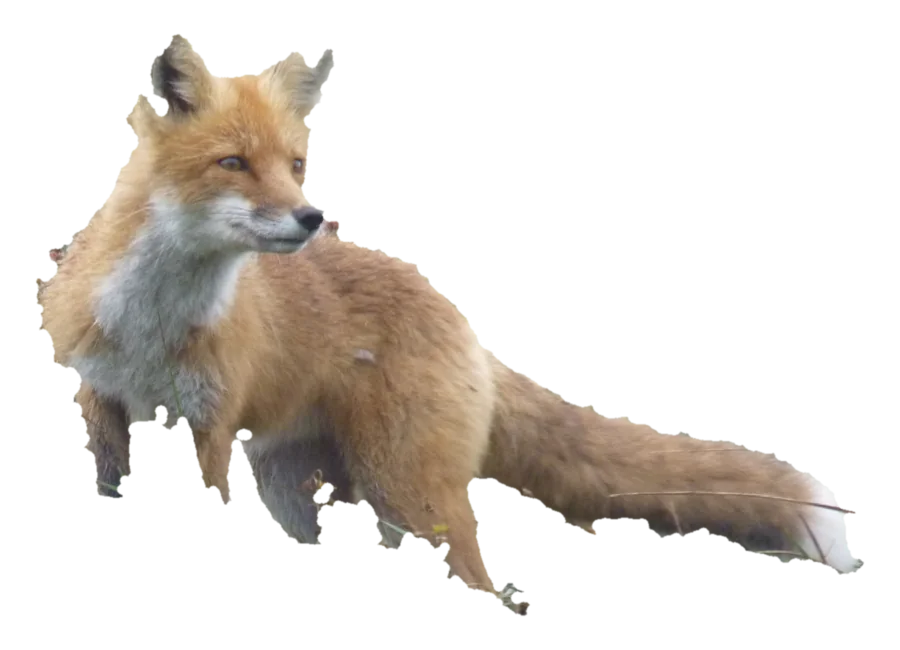
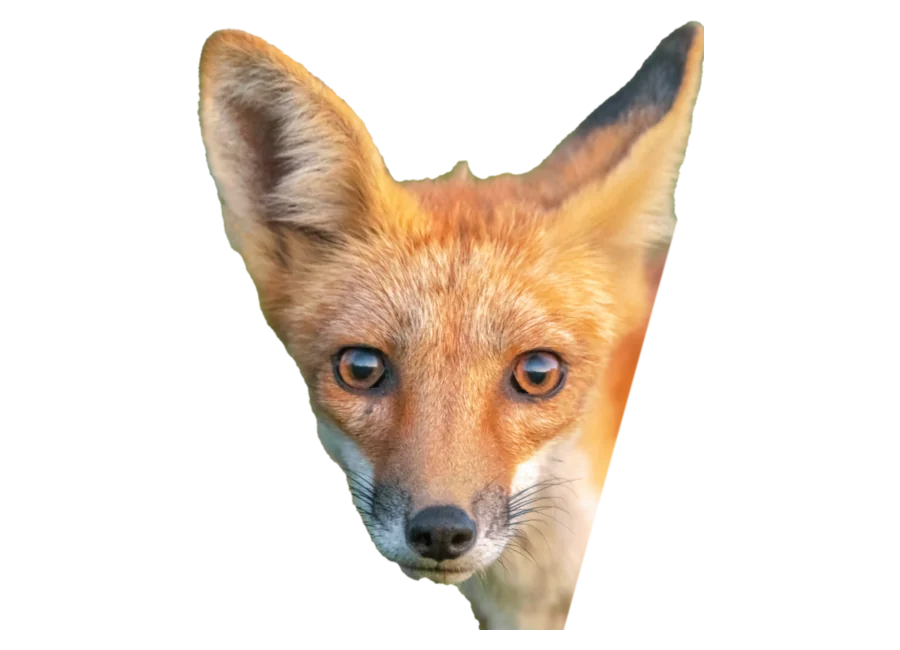
feat(v27): лис вообще без фона — новая вырезка головы с мягким краем
Запрос пользователя: «лиса должна быть вообще без заднего фона, углы лучше смажь, на краях плавнее; убери надпись на главной; плюсом более подходящая картинка лиса».

Новый источник (public domain, USFWS Midwest Region, Wikimedia Commons): «Red fox (52869982404)» — классический рыжий лис смотрит в камеру, фон — ровный зелёный боке, шерсть ничем не перекрыта.

Вырезка (ImageMagick, без новых зависимостей): HSL-ключ по зелёному фону → связные компоненты оставляют только силуэт → морфология закрывает дыры и снимает бахрому → эрозия 3px → размытие альфы 1.3px (мягкий край) → unspill зелёного отсвета по зелёному каналу → мягкий диагональный срез размытого плеча. Асет: PNG 900×650 RGBA (359 630 Б, полупрозрачные пиксели на краю сохранены — PNG8 их терял) + WebP 37 КБ для браузеров.

С главной убрана подпись «Лис Идея — талисман проекта» (и её правило в CSS), в футере — новый источник фото. Гейты: v22 (провенанс), v24 (md5-пин), v26 (атрибуция в футере). 145 passed, tsc=0, build=0.

diff --git a/apps/web/components/IntroScene.tsx b/apps/web/components/IntroScene.tsx
@@ -396,10 +396,12 @@ export function Fox() {
 // v24: фото могло не загрузиться (офлайн, прокси, 404) — тогда показываем
 // карточку с токенным градиентом, а не битую картинку; legacy-SVG-лис в
 // разметку не возвращаем (гейт v22 требует, чтобы он не рендерился).
-// v25: пользователь попросил лиса БЕЗ заднего фона — тот же снимок вырезан
-// в PNG с альфой (900×650): трава снята по HSL-маске, связные компоненты
-// оставили только силуэт лиса, RGB — оригинал с медианной «починкой» зоны
-// травы. Растр запечён, без runtime-фильтров/blend; зум и посадка —
+// v27: пользователь попросил лиса СОВСЕМ без фона и с более подходящей
+// картинкой. Новый источник — «Red fox (52869982404)», USFWS Midwest Region,
+// public domain (зелёный боке-фон снимается ключом по HSL, край сглажен и
+// очищен от зелёного отсвета):
+// https://commons.wikimedia.org/wiki/File:Red_fox_(52869982404).jpg
+// Растр запечён (900×650, RGBA), без runtime-фильтров/blend; зум и посадка —
 // transition, не keyframes (бюджет 30 не трогаем).
 function FoxPhoto() {
   const [failed, setFailed] = React.useState(false)

diff --git a/apps/web/pages/index.tsx b/apps/web/pages/index.tsx
@@ -236,7 +236,6 @@ export default function Home() {
                   decoding="async"
                 />
               </picture>
-              <p className="mascot-card__cap">Лис Идея — талисман проекта</p>
             </div>
           </aside>
         </section>
@@ -410,8 +409,8 @@ export default function Home() {
             <Link href="/employer">Версия для работодателя</Link>
           </span>
           <span className="site-footer__credit">
-            Фото лиса: «Red Fox at Puale Bay», USFWS Alaska, public domain
-            (Wikimedia Commons)
+            Фото лиса: «Red fox (52869982404)», USFWS Midwest Region, public
+            domain (Wikimedia Commons)
           </span>
         </footer>
       </main>

diff --git a/apps/web/styles/globals.css b/apps/web/styles/globals.css
@@ -1147,7 +1147,6 @@ main { position: relative; z-index: 1; }
   box-shadow: var(--shadow), inset 0 1px 0 var(--hairline);
 }
 .mascot-card__img { display: block; width: 100%; height: auto; max-height: 220px; object-fit: contain; object-position: bottom; }
-.mascot-card__cap { font-size: 12.5px; color: var(--muted); text-align: right; margin-top: 6px; }
 
 /* пикер навыков: группы вместо стены чипов */
 .picker { scroll-margin-top: 92px; }

diff --git a/tests/test_v22_photo.py b/tests/test_v22_photo.py
@@ -1,8 +1,9 @@
 """v22 (→ v25): лис в интро — реальное фото, а не SVG; v25 — вырезка без фона.
 
 История: v22 поставил фото-карточку (public domain, JPEG), v23 перекадрировал
-плотнее, v25 по запросу пользователя («лиса с задним фоном» → «лис без фона»)
-заменил снимок на вырезку того же снимка — PNG 900×650 с альфой. SVG-лис v20
+плотнее, v25 заменил снимок на вырезку (PNG с альфой), v27 — по запросу
+«лис вообще без фона + более подходящая картинка» — новая вырезка головы
+рыжего лиса (USFWS Midwest, public domain): PNG 900×650 с альфой. SVG-лис v20
 остаётся в файле как legacy для гейтов v9/v19/v20, но в разметке сцены не
 рендерится. У вырезки нет runtime-фильтров/blend: только transform (зум/посадка
 через transition, бюджет @keyframes не тратится).
@@ -35,6 +36,8 @@ def test_photo_asset_is_baked_png():
     )
     assert depth == 8, f"ожидаем 8 бит на канал, а не {depth}"
     assert color == 6, f"ожидаем RGBA (тип 6) с альфой, а не тип {color}"
+    # v27: вырезка — фото в RGBA (мягкий край требует полупрозрачных пикселей,
+    # PNG8 их теряет). Браузеры получают WebP (~37 КБ), PNG — запасной вариант.
     assert len(raw) < 400_000, f"вырезка слишком тяжёлая: {len(raw)} байт"
 
 
@@ -45,7 +48,7 @@ def test_intro_renders_photo_not_svg():
     assert "width={900}" in INTRO and "height={650}" in INTRO
     # провенанс: public domain, источник указан в коде
     assert "public domain" in INTRO
-    assert "Red_Fox_at_Puale_Bay" in INTRO
+    assert "Red_fox_(52869982404)" in INTRO
     # legacy-лис остаётся для старых гейтов, но не в рендере
     assert "export function Fox()" in INTRO
 

diff --git a/tests/test_v24_photo_polish.py b/tests/test_v24_photo_polish.py
@@ -26,8 +26,8 @@ CSS = (ROOT / "apps/web/styles/globals.css").read_text(encoding="utf-8")
 DOCKERFILE = (ROOT / "apps/web/Dockerfile").read_text(encoding="utf-8")
 DOCKERIGNORE = ROOT / "apps/web/.dockerignore"
 
-# md5 запечённой вырезки (900×650 RGBA, public domain USFWS «Red Fox at Puale Bay»).
-PHOTO_MD5 = "9d801c9e01c70acdfa6ac4dffabf5f21"
+# md5 запечённой вырезки (900×650 RGBA, public domain USFWS «Red fox (52869982404)»).
+PHOTO_MD5 = "cc6dc50ad03d84d483784f0318f0dcaa"
 
 
 def _dark_block() -> str:

diff --git a/tests/test_v26_ui_redesign.py b/tests/test_v26_ui_redesign.py
@@ -202,7 +202,7 @@ def test_new_blocks_exist():
     ):
         assert needle in INDEX, f"нет разметки {needle}"
     # футер указывает источник фото (public domain)
-    assert "Red Fox at Puale Bay" in INDEX
+    assert "Red fox (52869982404)" in INDEX
 
 
 def test_depth_without_filters_and_heavy_layers():
